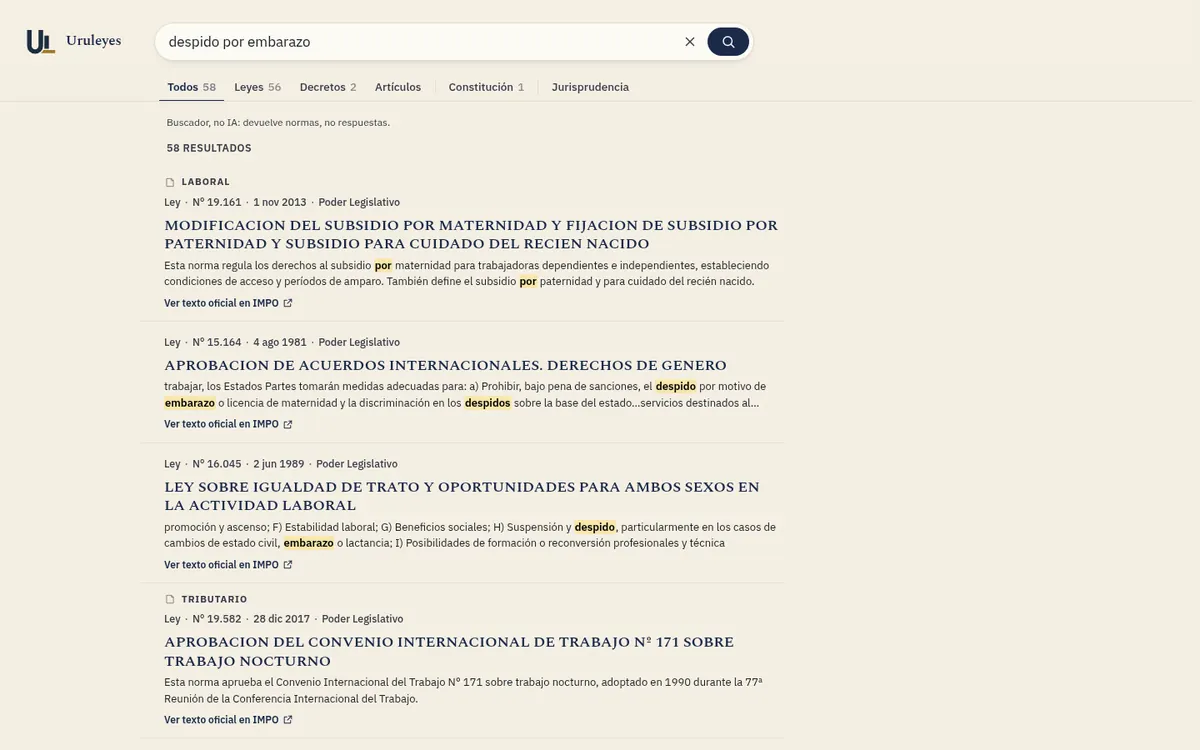
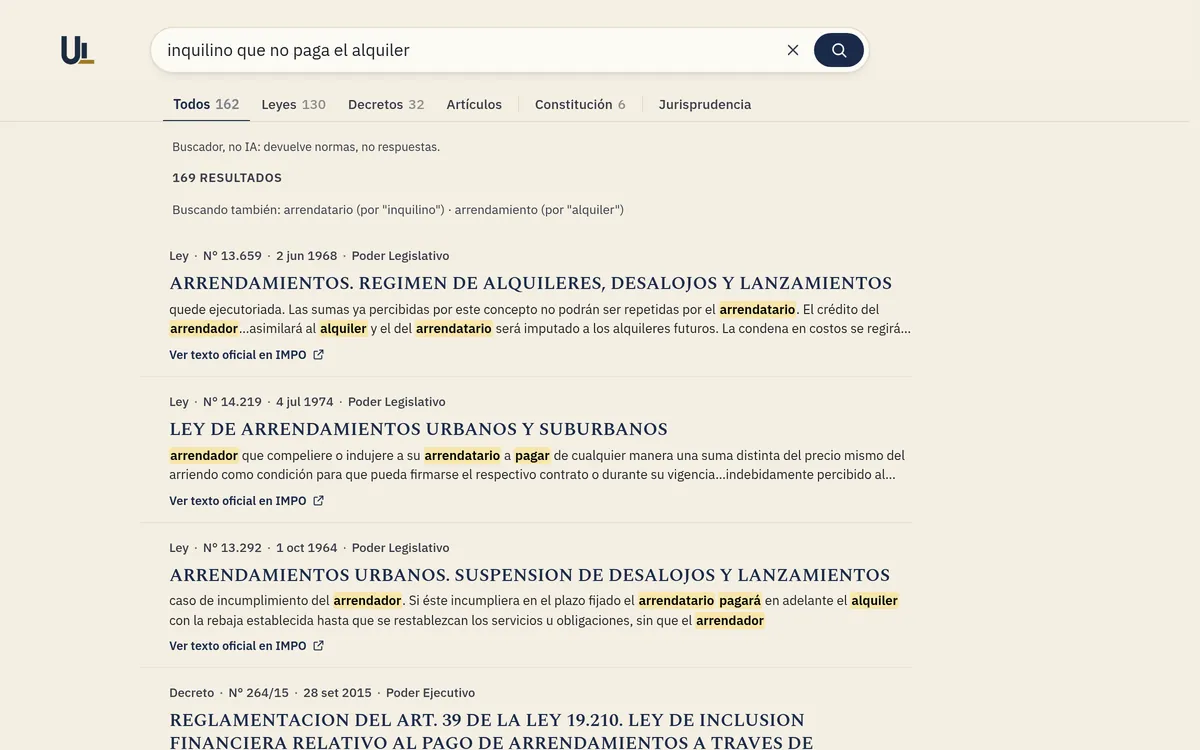
feat(uruleyes): ejemplo «inquilino que no paga el alquiler»
El buscador viene cargado con ese texto y la captura, nueva, muestra los
resultados reales de esa búsqueda en uruleyes.com (R-13, CA-10).

Claude-Session: https://claude.ai/code/session_012DLegAzxQZTkQA3BCoieh3

diff --git a/src/tests/data-integrity.test.ts b/src/tests/data-integrity.test.ts
@@ -76,6 +76,15 @@ describe('Data Integrity', () => {
     });
   });
 
+  it('el buscador de Uruleyes y su captura muestran «inquilino que no paga el alquiler» (CA-10)', () => {
+    const EXAMPLE = 'inquilino que no paga el alquiler';
+    [projectsEn, projectsEs].forEach((projects) => {
+      const uruleyes = projects.find((p) => p.name === 'Uruleyes')!;
+      expect(uruleyes.search?.example).toBe(EXAMPLE);
+      expect(uruleyes.screenshots?.[0].alt).toContain(EXAMPLE);
+    });
+  });
+
   it('never claims the unverifiable "99.9%" error reduction', () => {
     const text = JSON.stringify({ ...allContent, ui });
     expect(text).not.toMatch(/99[.,]9/);

diff --git a/docs/requisitos/02-inicio.md b/docs/requisitos/02-inicio.md
@@ -29,7 +29,8 @@
   prueba de carga), buscador «Try it», captura, stack y «Visit site». El rediseño de AntelTV es el
   caso de estudio: rol y qué construí en una línea cada uno, dos capturas y «Visit site». No hay
   otros proyectos: solo se muestra trabajo propio y verificable.
-- **R-13.** El buscador «Try it» viene cargado con «despido por embarazo» y, al enviarlo, abre en
+- **R-13.** El buscador «Try it» viene cargado con «inquilino que no paga el alquiler», la
+  captura muestra los resultados de esa misma búsqueda y, al enviarlo, abre en
   otra pestaña `https://uruleyes.com/?q=<texto>`.
 - **R-14.** Un dato que falta no se muestra: nunca aparece un `[placeholder]` ni el dato no
   verificable «99.9 %».
@@ -87,7 +88,8 @@ Verificación: `src/tests/i18n.test.ts` (destinos) y navegador.
 
 - Dado el proyecto Uruleyes
 - Cuando se lee su configuración de búsqueda
-- Entonces apunta a `https://uruleyes.com/` con el parámetro `q` y el ejemplo «despido por embarazo»
+- Entonces apunta a `https://uruleyes.com/` con el parámetro `q` y el ejemplo «inquilino que no paga
+  el alquiler», y el texto alternativo de la captura nombra esa búsqueda
 
 Verificación: `src/tests/data-integrity.test.ts`, `src/tests/content-schema.test.ts`.
 
